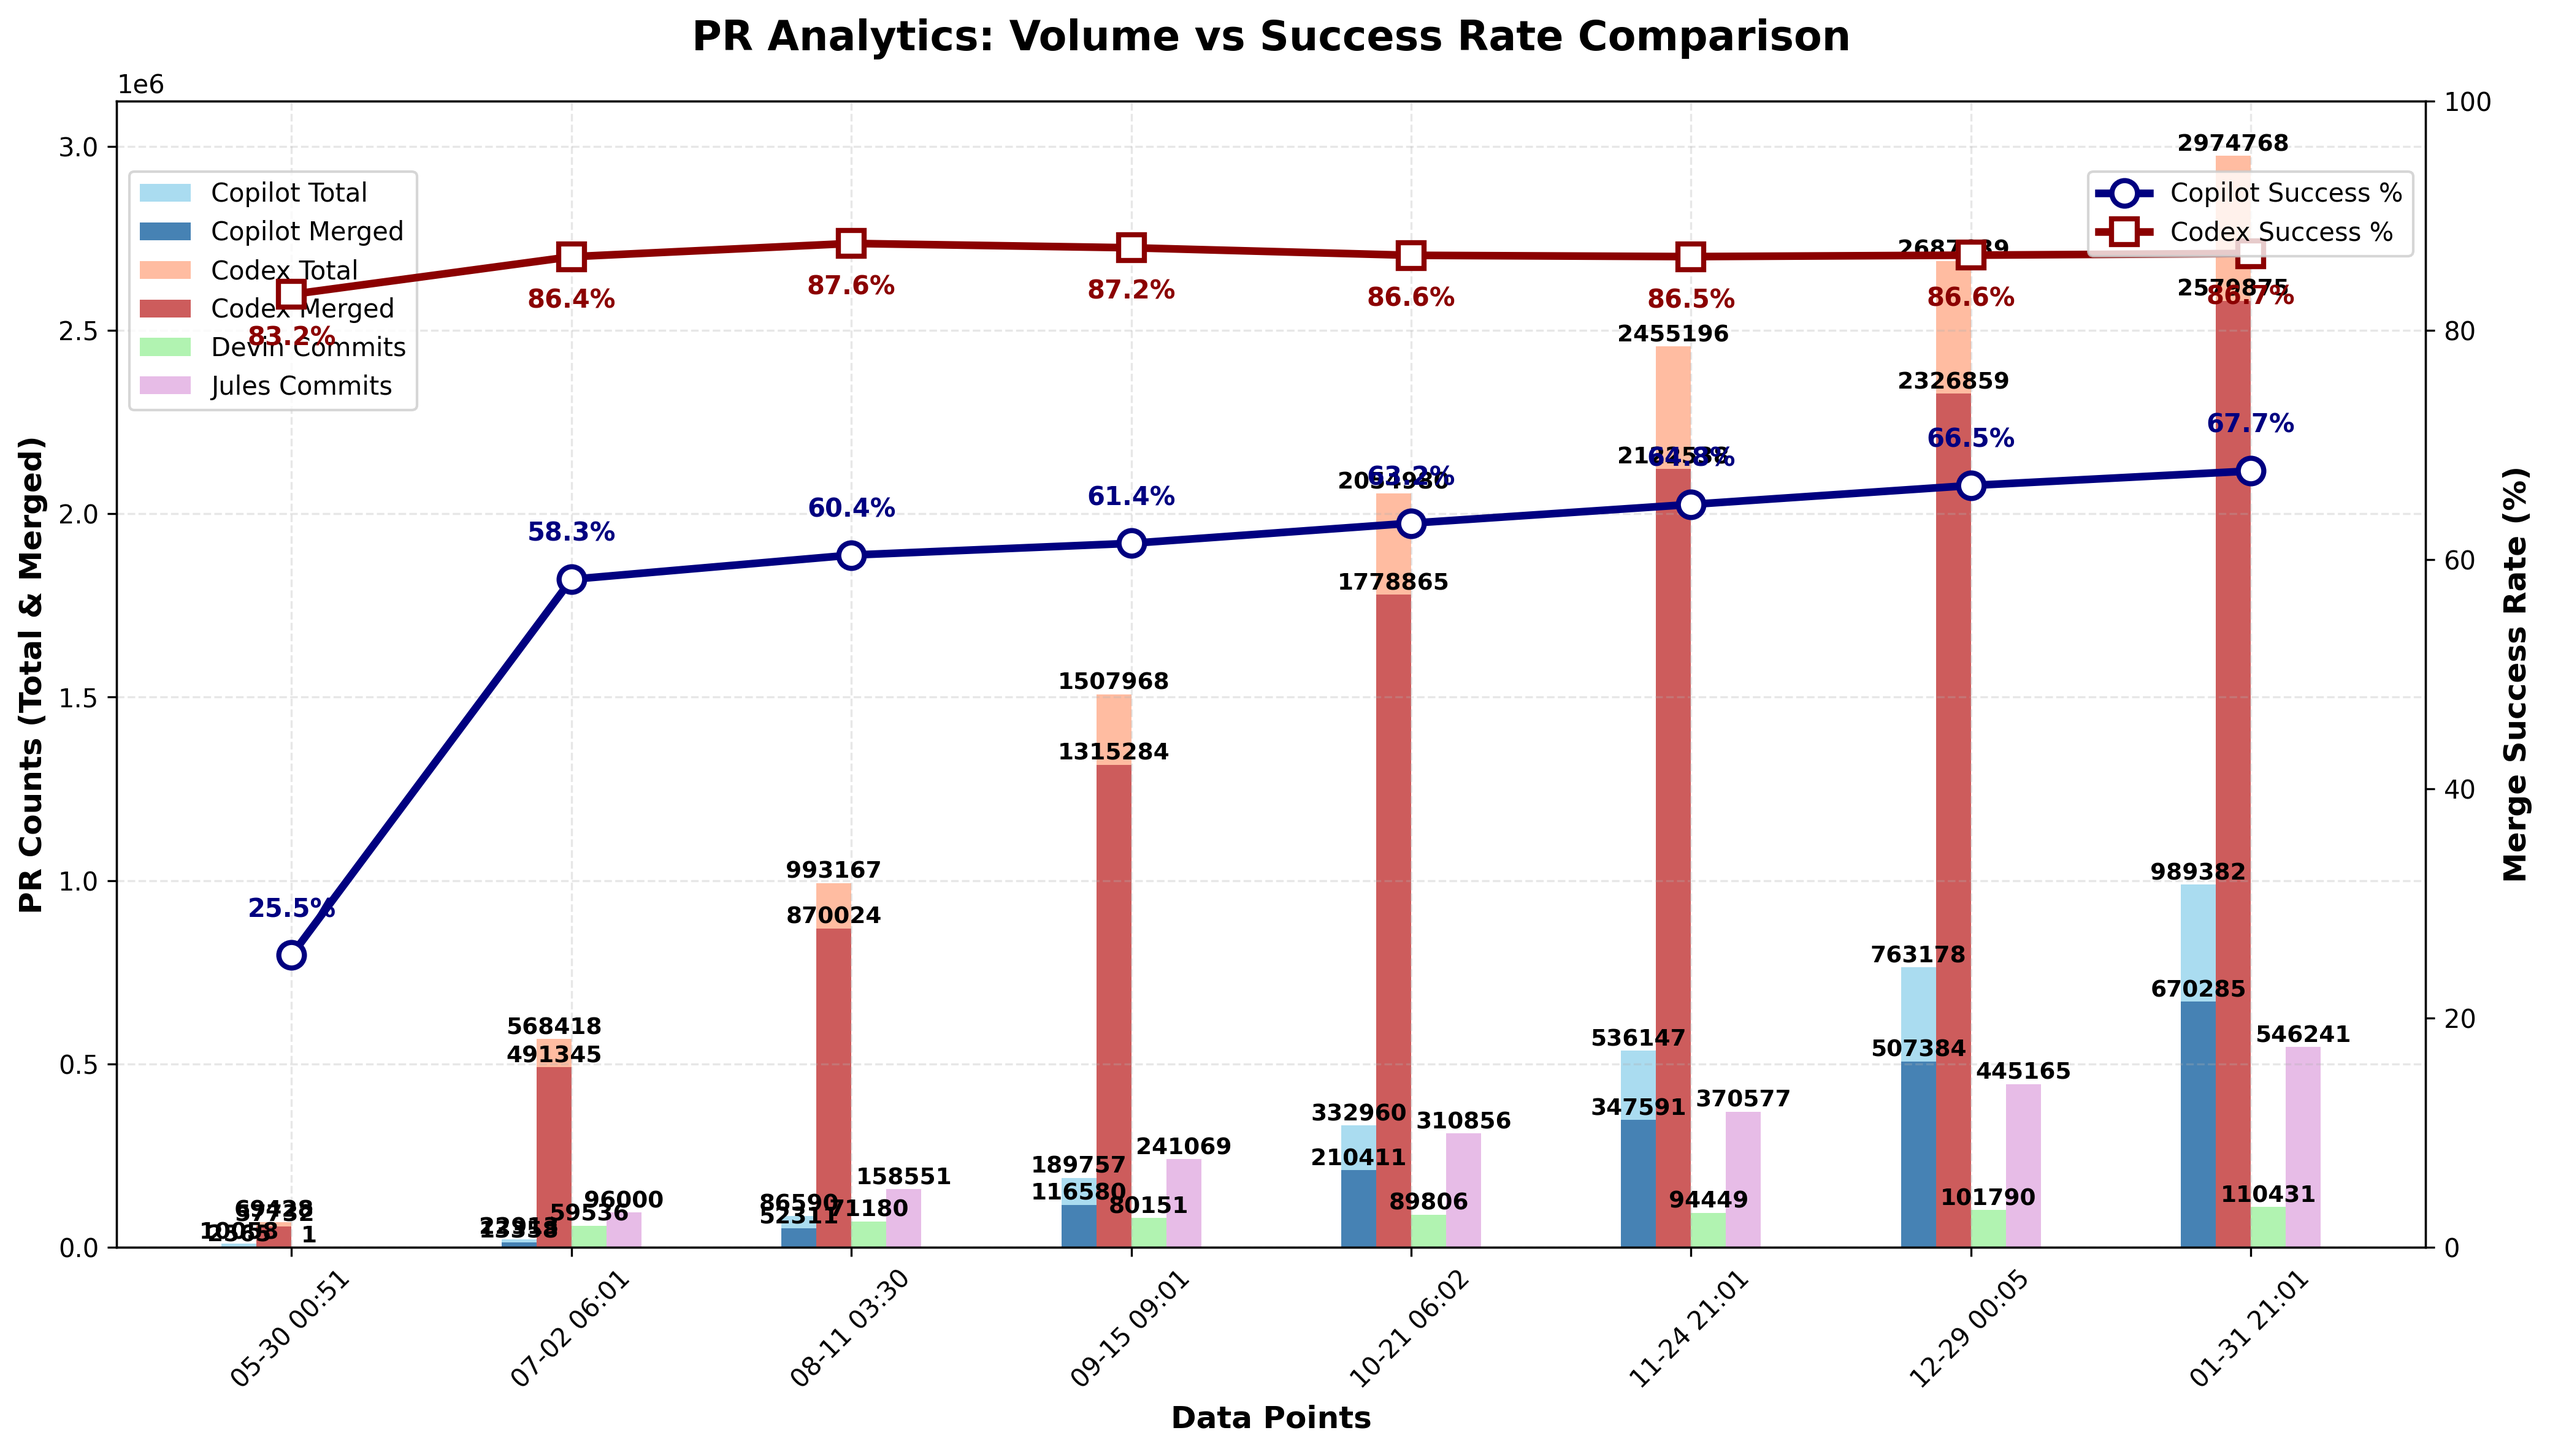
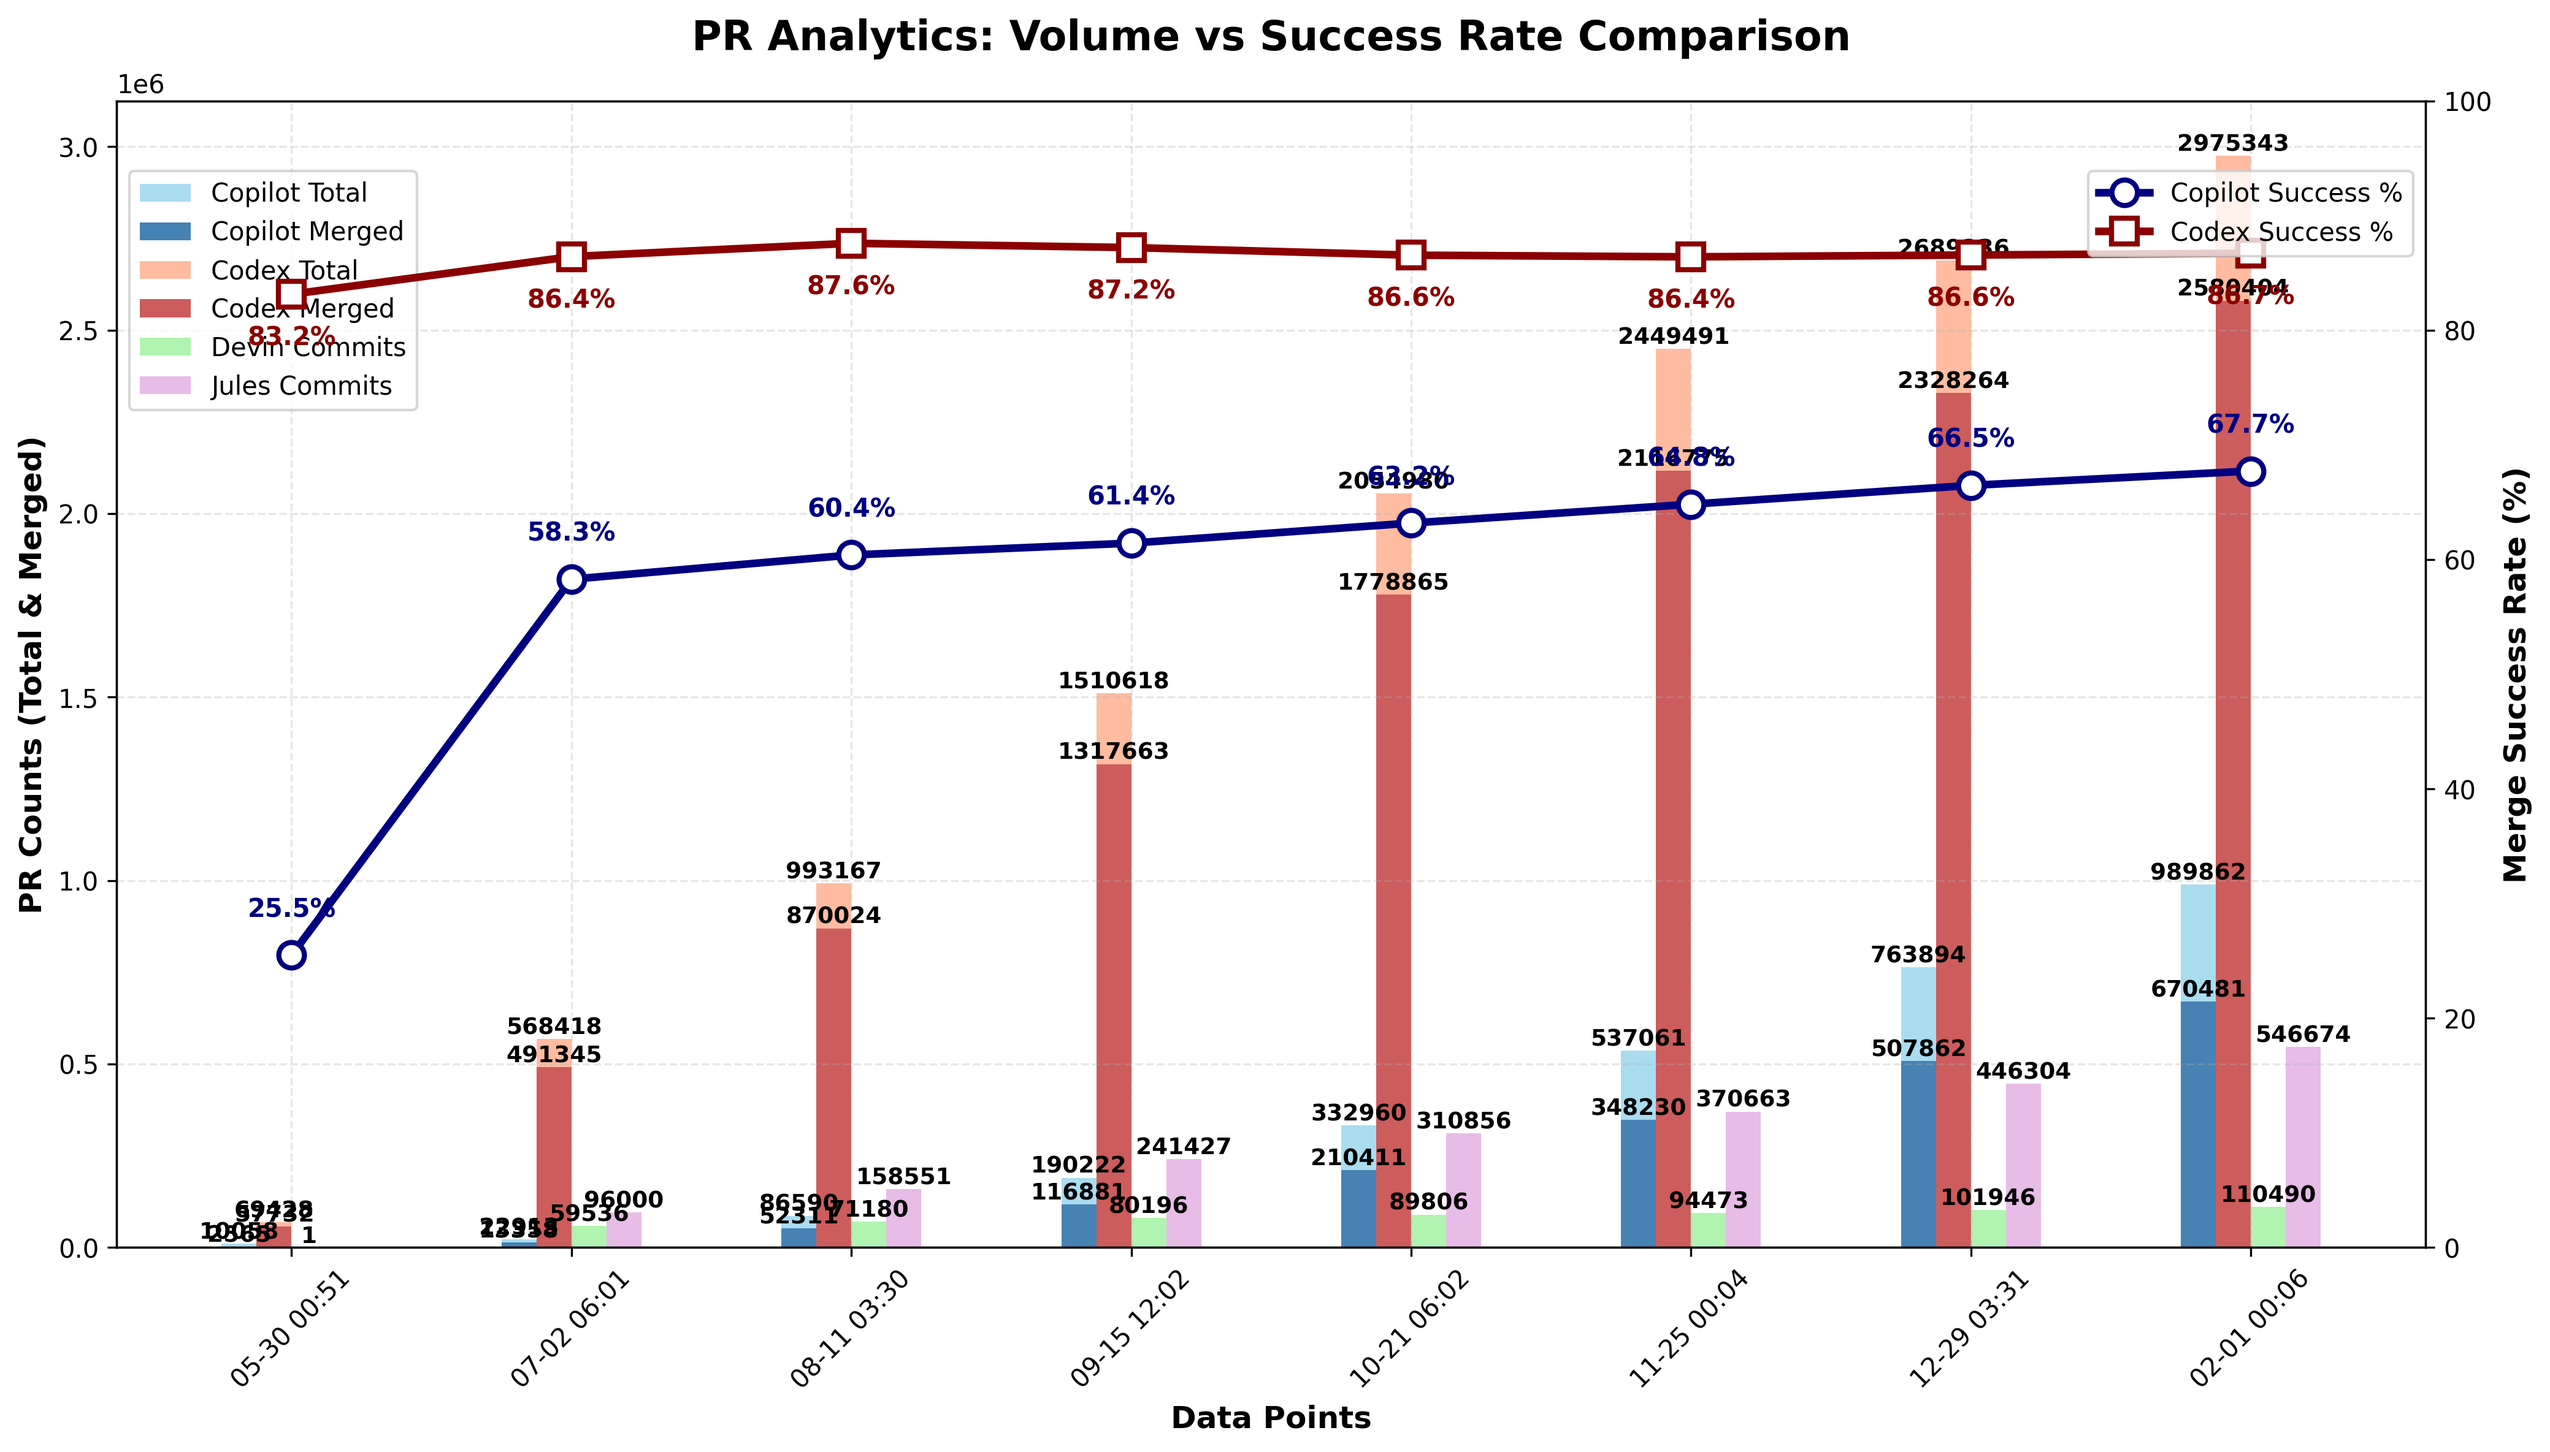
chore: update PR‑approval chart

diff --git a/docs/index.html b/docs/index.html
@@ -1905,6 +1905,7 @@
                         <td>N/A</td>
                         <td>N/A</td>
                         <td>N/A</td>
+                        <td>N/A</td>
                     </tr>
                     <tr>
                         <td>Codex</td>
@@ -3768,27 +3769,28 @@
                         <td>N/A</td>
                         <td>N/A</td>
                         <td>N/A</td>
+                        <td>N/A</td>
                     </tr>
                 <tr>
                         <td>Devin</td>
                         <td>N/A</td>
                         <td>N/A</td>
                         <td>N/A</td>
-                        <td>110,431</td>
+                        <td>110,490</td>
                     </tr>
                     <tr>
                         <td>Jules</td>
                         <td>N/A</td>
                         <td>N/A</td>
                         <td>N/A</td>
-                        <td>546,241</td>
+                        <td>546,674</td>
                     </tr>
                     </tbody>
             </table>
         </section>
 
         <footer>
-            <p>Last updated: <span id="last-updated">January 31, 2026 21:01 UTC</span></p>
+            <p>Last updated: <span id="last-updated">February 01, 2026 00:06 UTC</span></p>
             <p><a href="https://github.com/aavetis/ai-pr-watcher">View on GitHub</a></p>
         </footer>
     </div>

diff --git a/README.md b/README.md
@@ -19,7 +19,7 @@ Explore the GitHub search queries used:
 
 | Service | Total PRs | Merged PRs | Merge Rate | Total Commits |
 | ------- | --------- | ---------- | ---------- | ------------- |
-| Copilot | 989,382 | 670,285 | 67.75% | N/A           |
-| Codex   | 2,974,768 | 2,579,875 | 86.73% | N/A           |
-| Devin   | N/A       | N/A        | N/A        | 110,431 |
-| Jules   | N/A       | N/A        | N/A        | 546,241 |
+| Copilot | 989,862 | 670,481 | 67.73% | N/A           |
+| Codex   | 2,975,343 | 2,580,404 | 86.73% | N/A           |
+| Devin   | N/A       | N/A        | N/A        | 110,490 |
+| Jules   | N/A       | N/A        | N/A        | 546,674 |
